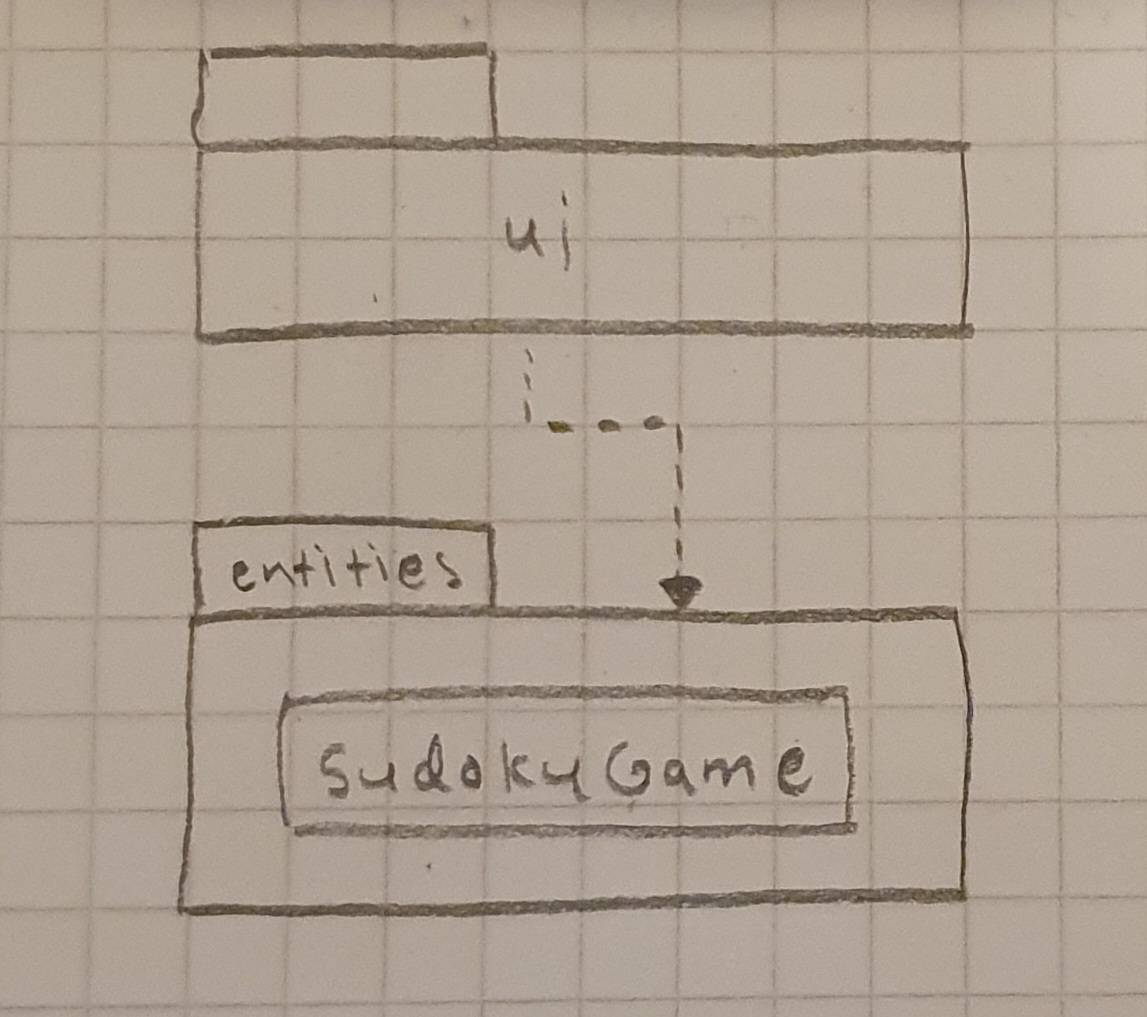
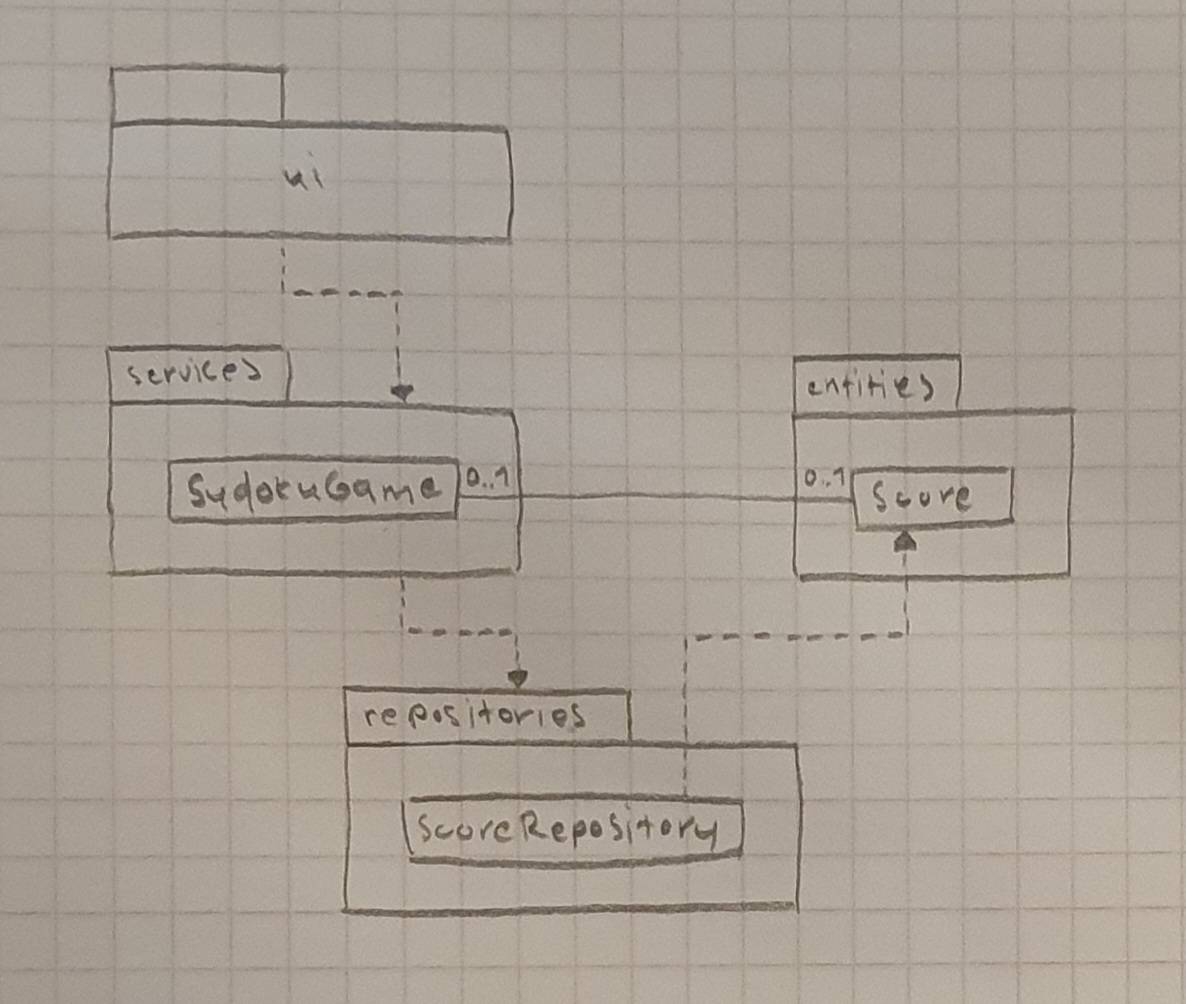
update arkkitehtuuri.md

diff --git a/dokumentaatio/arkkitehtuuri.md b/dokumentaatio/arkkitehtuuri.md
@@ -1,6 +1,10 @@
 # Arkkitehtuurikuvaus
 
-## Luokkakaavio
+## Rakenne
+
+Tässä osiossa kuvataan sovelluksen rakennetta luokka- ja pakkauskaaviolla.
+
+### Luokkakaavio
 
 ```mermaid
  classDiagram
@@ -10,14 +14,75 @@
         solution
         start_time
         end_time
+        _score_repository
         _define_difficulty()
         get_puzzle_board()
         get_solution_board()
         is_solution_correct()
         get_elapsed_time()
+        save_score()
+        get_elapsed_time_as_string()
+        show_leaderboard()
     }
+    class Score {
+        name
+        difficulty
+        time
+    }
+    class ScoreRepository {
+        _connection
+        save()
+        show_top_ten()
+    }
+    SudokuGame "0..1" -- "0..1" Score
+    SudokuGame ..> ScoreRepository
+    ScoreRepository ..> Score
 ```
 
-## Pakkauskaavio
+### Pakkauskaavio
 
 ![Pakkauskaavio](./kuvat/pakkauskaavio.jpg)
+
+## Päätoiminnallisuudet
+
+Tässä osiossa kuvataan sovelluksen toimintalogiikkaa muutaman päätoiminnallisuuden osalta sekvenssikaaviona.
+
+### Uuden pelin aloittaminen
+
+Kun käyttäjä aloittaa uuden pelin, sovelluksen kontrolli etenee seuraavasti:
+
+```mermaid
+sequenceDiagram
+  actor User
+  participant SudokuUI
+  participant SudokuGame
+  participant ScoreRepository
+
+  User->>SudokuUI: click "Start game" button
+  SudokuUI->>SudokuGame: SudokuGame("Easy")
+  SudokuUI->>SudokuUI: create_sudoku()
+  SudokuUI->SudokuUI: update_timer()
+  SudokuUI->>SudokuGame: get_puzzle_board()
+  SudokuGame-->>SudokuUI: puzzle_board
+```
+
+### Ratkaisun tarkistaminen
+
+Uuden pelin luomisen jälkeen käyttäjä yrittää tarkistaa ei-täytettyä sudokua. Tämän jälkeen hän ratkaisee sudokun oikein ja tarkistaa ratkaisun uudelleen. Tällöin sovelluksen kontrolli etenee seuraavasti:
+
+```mermaid
+sequenceDiagram
+  actor User
+  participant SudokuUI
+  participant SudokuGame
+  participant ScoreRepository
+
+  User->>SudokuUI: click "Check solution" button
+  SudokuUI->>SudokuGame: is_solution_correct()
+  SudokuGame-->>SudokuUI: false
+  User->>SudokuUI: solve sudoku correctly
+  User->>SudokuUI: click "Check solution" button
+  SudokuUI->>SudokuGame: is_solution_correct()
+  SudokuGame-->>SudokuUI: true
+  
+```
